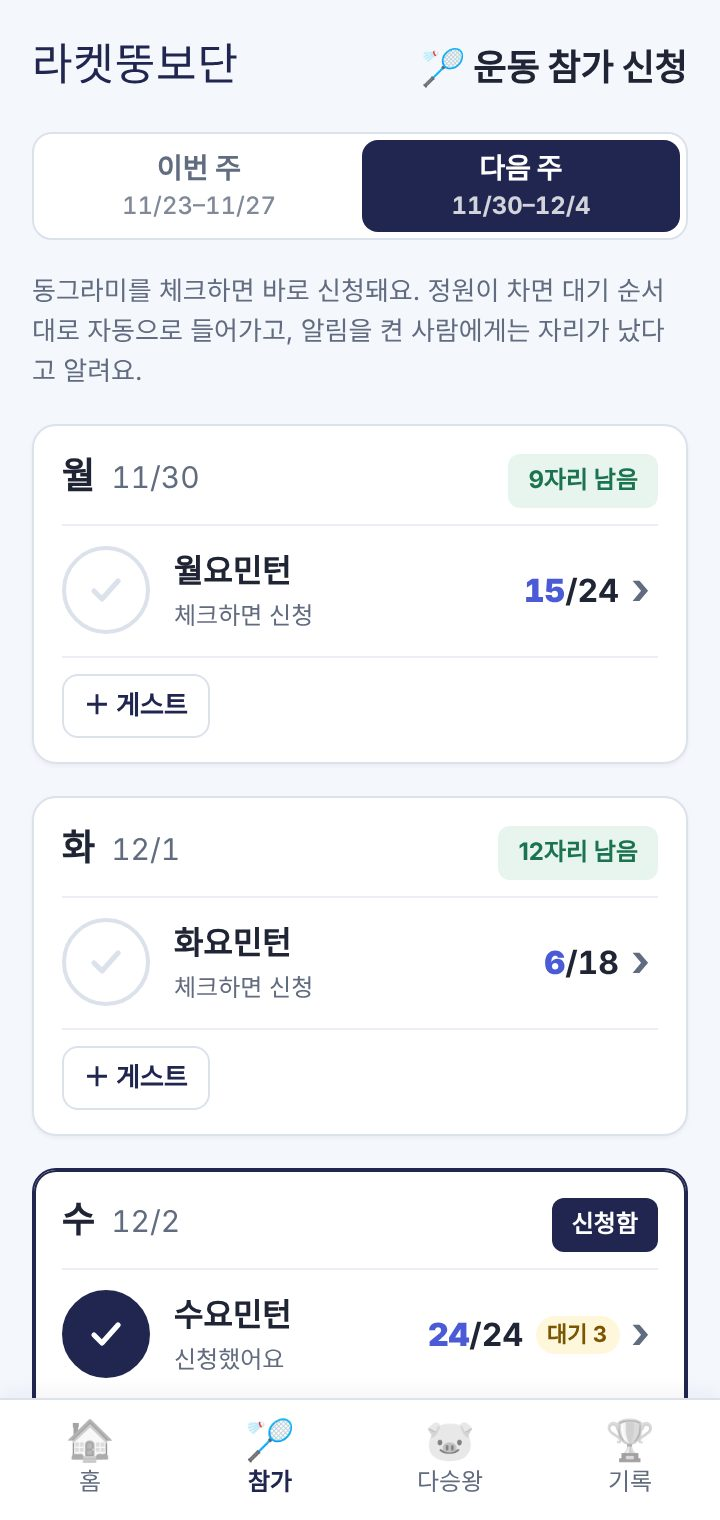
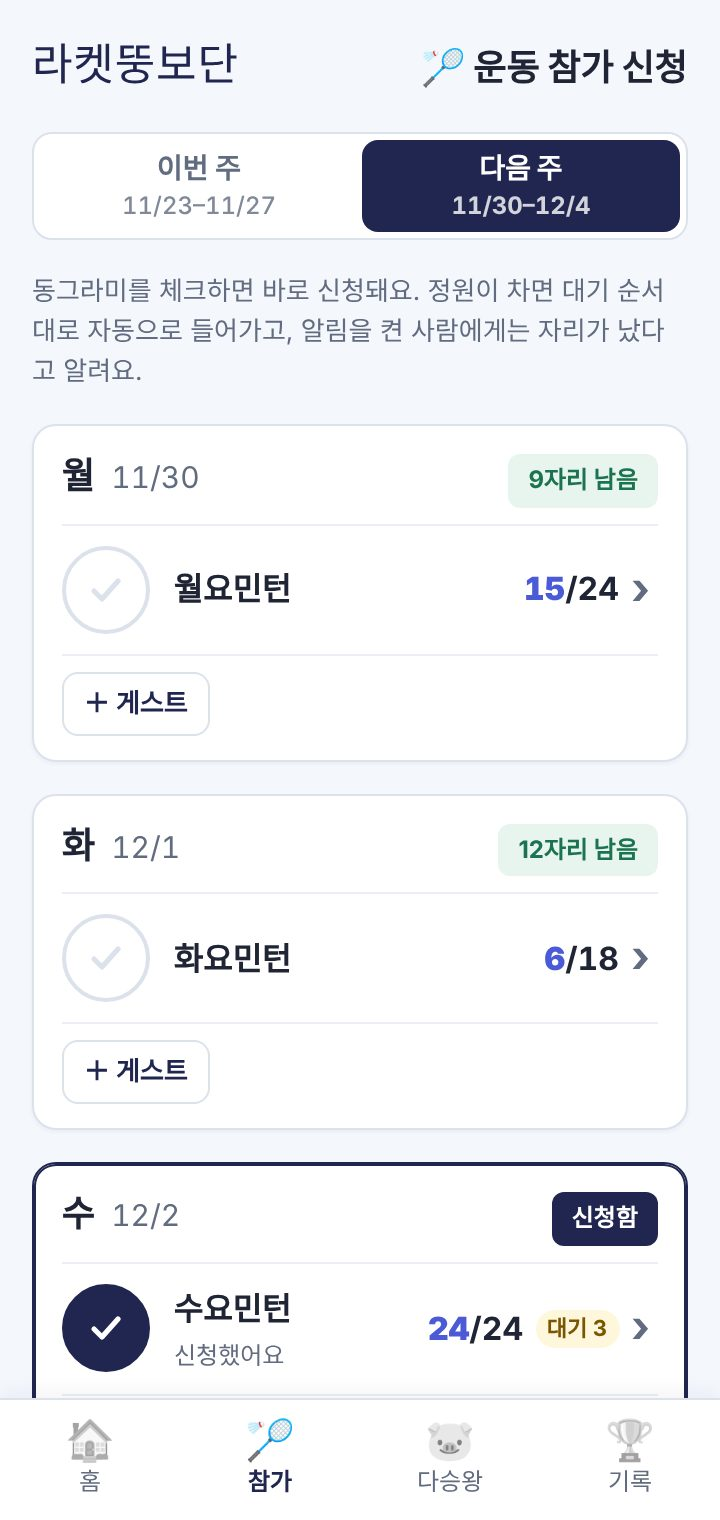
참가: '체크하면 신청' 문구 뺌, 참가자 프로필·탭을 얼굴 아이콘으로, 급수 탭 6개 각각
Claude-Session: https://claude.ai/code/session_01498pYHck4bYyNtFkEfaMTU

diff --git a/app.js b/app.js
@@ -1279,11 +1279,13 @@
     var out = '<div class="pc-back" data-act="sg-list-close" aria-hidden="true"></div><section class="sg-modal" role="dialog" aria-modal="true" aria-labelledby="sgl-h">' +
       '<h3 id="sgl-h">참가자</h3><div class="sgm-sub"><b>' + dowOf(d) + '요일 운동 · ' + md(d) + '</b><span class="num"><em>' + sd.inCount + '</em>/' + row.cap + (sd.waitCount ? ' · 대기 ' + sd.waitCount : '') + '</span></div>' +
       '<div class="sgm-tabs" role="tablist" aria-label="급수">' + L.SG_TABS.map(function (t) {
-        return '<button role="tab" aria-selected="' + (tab === t.id) + '" data-act="sg-ltab" data-v="' + t.id + '"><b>' + t.label.replace('·', '·<wbr>') + '</b><small class="num">' + L.sgFilter(all, P, t.id).length + '명</small></button>';
+        var n = L.sgFilter(all, P, t.id).length;
+        return '<button role="tab" aria-selected="' + (tab === t.id) + '" data-act="sg-ltab" data-v="' + t.id + '" aria-label="' + t.label + ' ' + n + '명"' + (t.id !== 'all' && !n ? ' class="none"' : '') + '>' +
+          (t.id === 'all' ? '<b>전체</b>' : '<i class="face face-' + t.id + '" aria-hidden="true"></i>') + '<small class="num">' + n + '</small></button>';
       }).join('') + '</div>' +
       '<ol class="sgm-list">' + (es.length ? es.map(function (e) {
         var p = e.player_id ? P[e.player_id] || {} : null, ch = p ? GRADE_CH[p.grade] : null;
-        var face = p ? (ch ? '<i class="ch ch-' + ch + '" aria-hidden="true"></i>' : '<span class="sgm-ini" aria-hidden="true">' + esc((p.name || '?').slice(0, 1)) + '</span>') :
+        var face = p ? (ch ? '<i class="face face-' + ch + '" aria-hidden="true"></i>' : '<span class="sgm-ini" aria-hidden="true">' + esc((p.name || '?').slice(0, 1)) + '</span>') :
           '<span class="sgm-ini guest g' + (e.gender === 'F' ? 'f' : 'm') + '" aria-hidden="true">' + (e.gender === 'F' ? '여' : '남') + '</span>';
         var nm = p ? esc(p.name || '?') + (p.grade ? '<small>(' + esc(p.grade) + ')</small>' : '') :
           esc(e.guest || '게스트') + '<small>(게스트·' + (e.gender === 'F' ? '여' : '남') + ' · ' + esc((P[e.host_id] || {}).name || '?') + ' 데려옴)</small>';
@@ -1330,10 +1332,10 @@
       past ? '<span class="chip">지난 날</span>' : sd.full ? '<span class="chip sg-full">꽉 참' + (sd.waitCount ? ' · 대기 ' + sd.waitCount + '명' : '') + '</span>' : '<span class="chip sg-left">' + sd.left + '자리 남음</span>';
     var out = '<section class="card sg-day' + (mine ? ' sg-mine' : '') + (row.closed || past ? ' sg-dim' : '') + '">' + head + chip + '</div>';
     // 밴드 참가신청서처럼: 체크 동그라미로 신청 · 오른쪽 "15/22 ›" 누르면 참가자 창 (2026-11-27)
-    var hint = mine ? (mine.status === 'in' ? '신청했어요' : '대기 ' + mine.no + '번이에요') : !row.open ? (row.closed ? '쉬는 날이에요' : '신청이 끝났어요') : sd.full ? '체크하면 대기 신청' : '체크하면 신청';
+    var hint = mine ? (mine.status === 'in' ? '신청했어요' : '대기 ' + mine.no + '번이에요') : !row.open ? (row.closed ? '쉬는 날이에요' : '신청이 끝났어요') : '';
     out += '<div class="sg-row">' + (row.open || mine ? '<button class="sg-check' + (mine && mine.status !== 'in' ? ' wait' : '') + '" role="checkbox" aria-checked="' + !!mine + '" data-act="' + (mine ? 'sg-cancel' : 'sg-apply') + '" data-v="' + d + '"' + (row.open ? '' : ' disabled') +
         ' aria-label="' + dowOf(d) + '요일 ' + (mine ? '신청 취소' : sd.full ? '대기 신청' : '참가 신청') + '"><svg viewBox="0 0 24 24" aria-hidden="true"><path d="M6 12.5l4 4 8-9"/></svg></button>' : '<span class="sg-check off" aria-hidden="true"></span>') +
-      '<span class="sg-what"><b>' + dowOf(d) + '요민턴</b><small>' + hint + '</small></span>' +
+      '<span class="sg-what"><b>' + dowOf(d) + '요민턴</b>' + (hint ? '<small>' + hint + '</small>' : '') + '</span>' +
       '<button class="sg-count" data-act="sg-list" data-v="' + d + '" aria-haspopup="dialog" aria-label="참가자 ' + sd.inCount + '명, 정원 ' + row.cap + '명' + (sd.waitCount ? ', 대기 ' + sd.waitCount + '명' : '') + ' 명단 보기"><span class="num"><em>' + sd.inCount + '</em>/' + row.cap + '</span>' + (sd.waitCount ? '<small>대기 ' + sd.waitCount + '</small>' : '') + '<i aria-hidden="true">›</i></button></div>' +
       (row.memo ? '<p class="sg-memo">' + esc(row.memo) + '</p>' : '');
     var btns = '';

diff --git a/app.css b/app.css
@@ -981,11 +981,13 @@ button.lv-row:disabled { cursor: default; opacity: .7; }
 .sg-count em { font-style: normal; color: #4B5BD7; font-weight: 900; }
 .sg-count small { font-size: 11px; font-weight: 700; color: #7A5600; background: var(--yellow-50); border-radius: 999px; padding: 1px 6px; }
 .sg-count i { font-style: normal; font-size: 22px; line-height: 1; color: var(--text-2); }
-.sgm-tabs { display: grid; grid-template-columns: repeat(4, 1fr); gap: 4px; }
-.sgm-tabs button { min-height: 48px; padding: 4px 2px; border: 1px solid var(--line); border-radius: 10px; background: var(--surface); color: var(--text-2); font: inherit; display: grid; align-content: center; gap: 1px; cursor: pointer; }
-.sgm-tabs button b { font-size: 12px; font-weight: 700; line-height: 1.25; word-break: keep-all; }
-.sgm-tabs button small { font-size: 11px; }
-.sgm-tabs button[aria-selected="true"] { border-color: var(--navy); background: var(--navy); color: #fff; }
+.sgm-tabs { display: grid; grid-template-columns: repeat(7, minmax(0, 1fr)); gap: 3px; }
+.sgm-tabs button { min-height: 50px; padding: 4px 0; border: 1px solid var(--line); border-radius: 10px; background: var(--surface); color: var(--text-2); font: inherit; display: grid; justify-items: center; align-content: center; gap: 2px; cursor: pointer; }
+.sgm-tabs button b { font-size: 12px; font-weight: 900; line-height: 26px; }
+.sgm-tabs button .face { width: 26px; height: 26px; }
+.sgm-tabs button small { font-size: 11px; font-weight: 700; }
+.sgm-tabs button.none { opacity: .45; }
+.sgm-tabs button[aria-selected="true"] { border-color: var(--navy); background: var(--navy-50); color: var(--navy); box-shadow: inset 0 0 0 1px var(--navy); opacity: 1; }
 .btn.sg-waitbtn { background: var(--yellow-50); border: 1.5px solid #E8B23A; color: #7A5600; }
 .sg-list { margin: 0; padding: 0; list-style: none; display: grid; gap: 2px; font-size: 14px; }
 .sg-list li { display: flex; align-items: center; gap: 8px; min-height: 36px; padding: 2px 4px; border-bottom: 1px solid var(--line-2); }
@@ -1037,7 +1039,7 @@ button.lv-row:disabled { cursor: default; opacity: .7; }
 .sgm-list li { display: flex; align-items: center; gap: 10px; min-height: 56px; padding: 6px 2px; border-bottom: 1px solid var(--line-2); }
 .sgm-list li.me { background: var(--navy-50); }
 .sgm-face { flex: none; width: 42px; height: 42px; border-radius: 50%; background: var(--surface-2); border: 1px solid var(--line); display: grid; place-items: center; overflow: hidden; }
-.sgm-face .ch { --chh: 36px; margin: 0; filter: none; }
+.sgm-face .face { width: 34px; height: 34px; }
 .sgm-ini { font-size: 15px; font-weight: 900; color: var(--text-2); }
 .sgm-ini.guest { width: 100%; height: 100%; display: grid; place-items: center; color: #fff; font-size: 14px; }
 .sgm-ini.gm { background: #3E7BD9; } .sgm-ini.gf { background: #D9497A; }

diff --git a/logic.test.js b/logic.test.js
@@ -1177,16 +1177,18 @@ test('bandTime: 신청 일시를 밴드처럼 "2026년 11월 26일 오후 2:38" 
   assert.strictEqual(L.bandTime(null), '');
 });
 
-test('sgFilter: 참가자 탭 — 전체 / 캐비어·랍스터 / 소갈비·양갈비 / 돼지갈비·닭갈비 (게스트·급수 없음은 전체에만)', () => {
-  assert.deepStrictEqual(L.SG_TABS.map(t => t.id + ':' + t.label), ['all:전체', 'A:캐비어·랍스터', 'B:소갈비·양갈비', 'C:돼지갈비·닭갈비']);
-  const P = { a: { grade: '캐비어' }, b: { grade: '양갈비' }, c: { grade: '닭갈비' }, d: { grade: '랍스터' }, e: {} };
-  const es = [{ id: 1, player_id: 'a' }, { id: 2, player_id: 'b' }, { id: 3, player_id: null, guest: '친구' }, { id: 4, player_id: 'c' }, { id: 5, player_id: 'd' }, { id: 6, player_id: 'e' }, { id: 7, player_id: 'zz' }];
+test('sgFilter: 참가자 탭 — 전체 + 급수 6개 각각 (게스트·급수 없음은 전체에만, 2026-11-27 김형준)', () => {
+  assert.deepStrictEqual(L.SG_TABS.map(t => t.id + ':' + t.label), ['all:전체', 'cv:캐비어', 'lb:랍스터', 'bf:소갈비', 'lm:양갈비', 'pk:돼지갈비', 'ck:닭갈비']);
+  const P = { a: { grade: '캐비어' }, b: { grade: '양갈비' }, c: { grade: '닭갈비' }, d: { grade: '랍스터' }, e: {}, f: { grade: '캐비어' } };
+  const es = [{ id: 1, player_id: 'a' }, { id: 2, player_id: 'b' }, { id: 3, player_id: null, guest: '친구' }, { id: 4, player_id: 'c' }, { id: 5, player_id: 'd' }, { id: 6, player_id: 'e' }, { id: 7, player_id: 'zz' }, { id: 8, player_id: 'f' }];
   const ids = tab => L.sgFilter(es, P, tab).map(e => e.id);
-  assert.deepStrictEqual(ids('all'), [1, 2, 3, 4, 5, 6, 7]);
-  assert.deepStrictEqual(ids('A'), [1, 5]);
-  assert.deepStrictEqual(ids('B'), [2]);
-  assert.deepStrictEqual(ids('C'), [4]);
-  assert.deepStrictEqual(ids(undefined), [1, 2, 3, 4, 5, 6, 7], '탭 없으면 전체');
+  assert.deepStrictEqual(ids('all'), [1, 2, 3, 4, 5, 6, 7, 8]);
+  assert.deepStrictEqual(ids('cv'), [1, 8]);
+  assert.deepStrictEqual(ids('lb'), [5]);
+  assert.deepStrictEqual(ids('lm'), [2]);
+  assert.deepStrictEqual(ids('ck'), [4]);
+  assert.deepStrictEqual(ids('bf'), []);
+  assert.deepStrictEqual(ids(undefined), [1, 2, 3, 4, 5, 6, 7, 8], '탭 없으면 전체');
 });
 
 console.log(`\n${passed} passed`);

diff --git a/logic.js b/logic.js
@@ -968,11 +968,12 @@ var Logic = (function () {
   // ---- 회원 로그인·회원 관리 (2026-11-26) ----
   var GRADES = ['캐비어', '랍스터', '소갈비', '양갈비', '돼지갈비', '닭갈비'];
   function gradeGroup(g) { var i = GRADES.indexOf(g); return i < 0 ? null : ['A', 'B', 'C'][i >> 1]; }
-  // 참가자 창 탭: 전체 / 급수 두 개씩 묶음. 게스트·급수 없는 사람은 전체에만 (2026-11-27)
-  var SG_TABS = [{ id: 'all', label: '전체' }, { id: 'A', label: '캐비어·랍스터' }, { id: 'B', label: '소갈비·양갈비' }, { id: 'C', label: '돼지갈비·닭갈비' }];
+  // 참가자 창 탭: 전체 + 급수 6개 각각. id는 얼굴 아이콘 이름(face-cv…). 게스트·급수 없는 사람은 전체에만 (2026-11-27)
+  var SG_TABS = [{ id: 'all', label: '전체' }, { id: 'cv', label: '캐비어' }, { id: 'lb', label: '랍스터' }, { id: 'bf', label: '소갈비' }, { id: 'lm', label: '양갈비' }, { id: 'pk', label: '돼지갈비' }, { id: 'ck', label: '닭갈비' }];
   function sgFilter(es, P, tab) {
     if (!tab || tab === 'all') return es.slice();
-    return es.filter(function (e) { return e.player_id && P[e.player_id] && gradeGroup(P[e.player_id].grade) === tab; });
+    var t = SG_TABS.filter(function (x) { return x.id === tab; })[0];
+    return es.filter(function (e) { return t && e.player_id && P[e.player_id] && P[e.player_id].grade === t.label; });
   }
   // 로그인 화면: 조마다 활동 회원만 가나다순
   function loginGroups(players, groups) {

diff --git a/deploy.test.js b/deploy.test.js
@@ -763,6 +763,9 @@ test('참가 카드: 밴드처럼 체크 버튼으로 신청, "15/22 ›" 누르
   assert.ok(/class="sg-count"[^>]*data-act="sg-list"/.test(card) && /sd\.inCount \+ '<\/em>\/' \+ row\.cap/.test(card) && /›/.test(card), '"15/22 ›" 누르면 명단');
   assert.ok(!/명단 ' \+/.test(card) && !/sg-main/.test(card) && !/sg-bar/.test(card), '예전 신청 큰 버튼·명단 버튼·막대 뺌');
   assert.ok(/L\.SG_TABS\.map/.test(pl) && /data-act="sg-ltab"/.test(pl) && /L\.sgFilter\(/.test(pl), '참가자 창 급수 탭');
+  assert.ok(/class="face face-' \+ t\.id/.test(pl), '탭은 급수 얼굴 아이콘');
+  assert.ok(/class="face face-' \+ ch/.test(pl) && !/class="ch ch-/.test(pl), '프로필 자리는 얼굴만 나오는 아이콘');
+  assert.ok(!/체크하면/.test(card), '"체크하면 신청" 문구 없음');
   assert.ok(/case 'sg-ltab':/.test(appSrc) && /case 'sg-list': ui\.sgList = v; ui\.sgTab = 'all'/.test(appSrc), '탭 바꾸기, 열 때는 전체');
 });
 test('service worker: index.html network-first, supabase는 캐시 안 함', () => {
